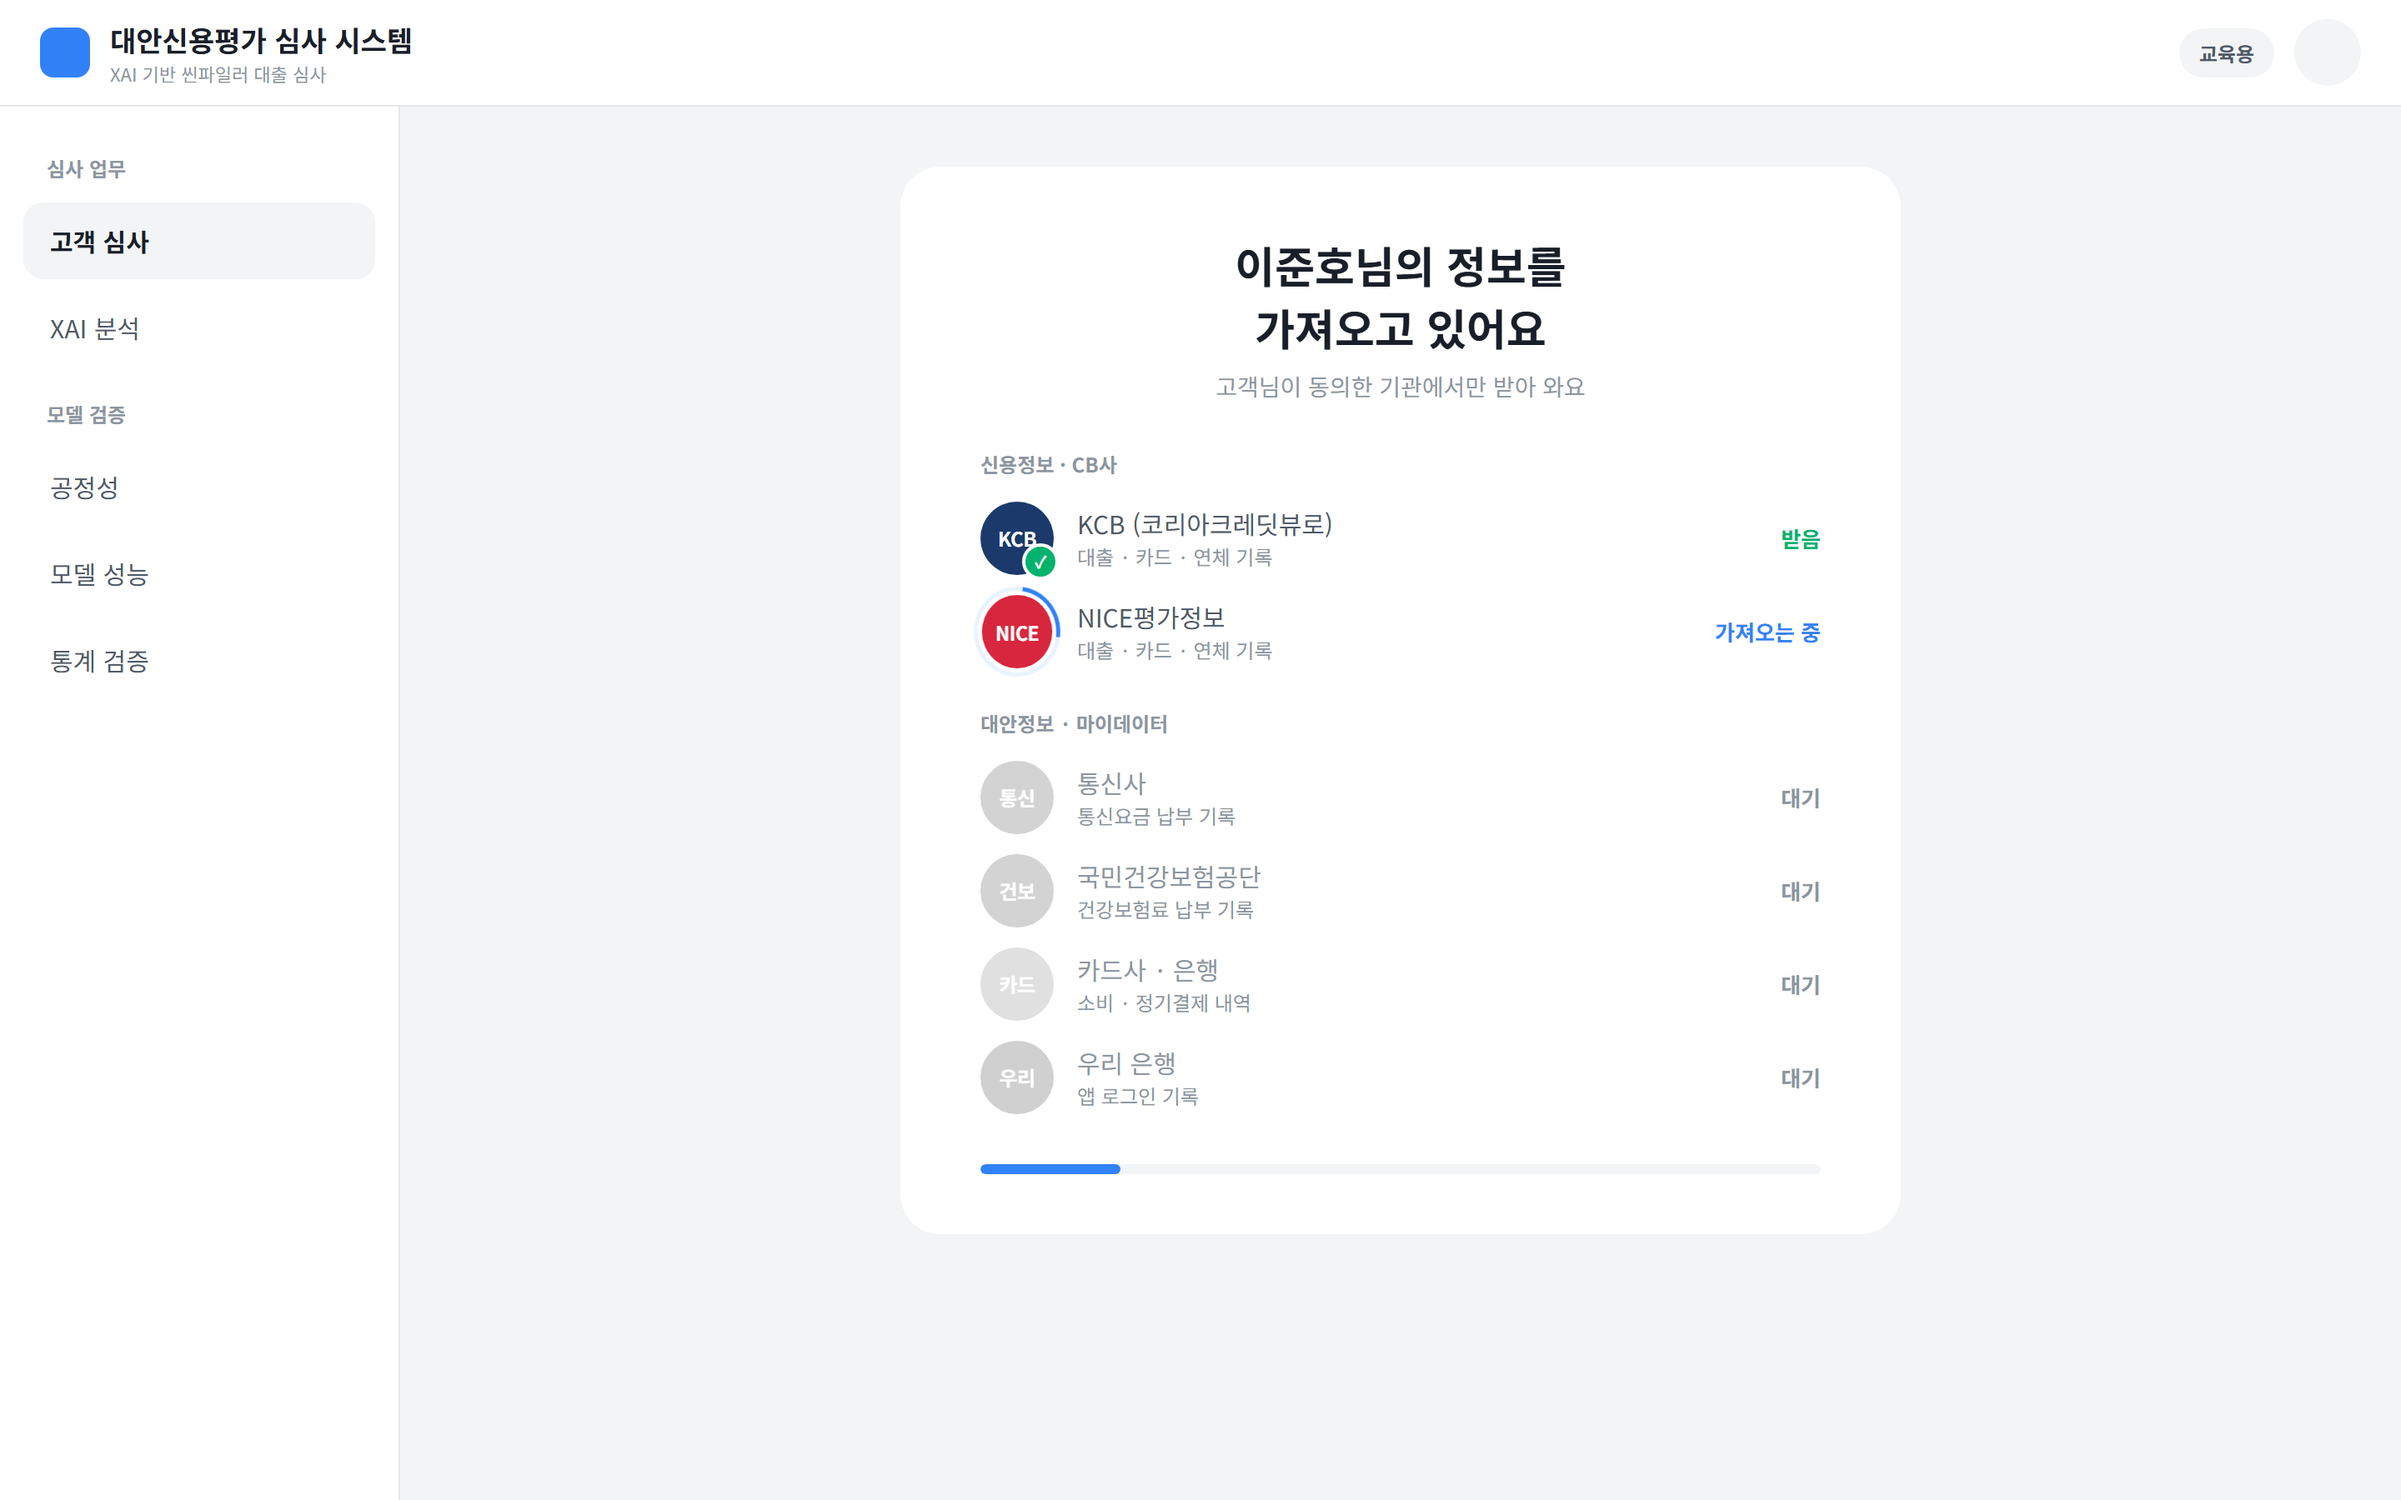
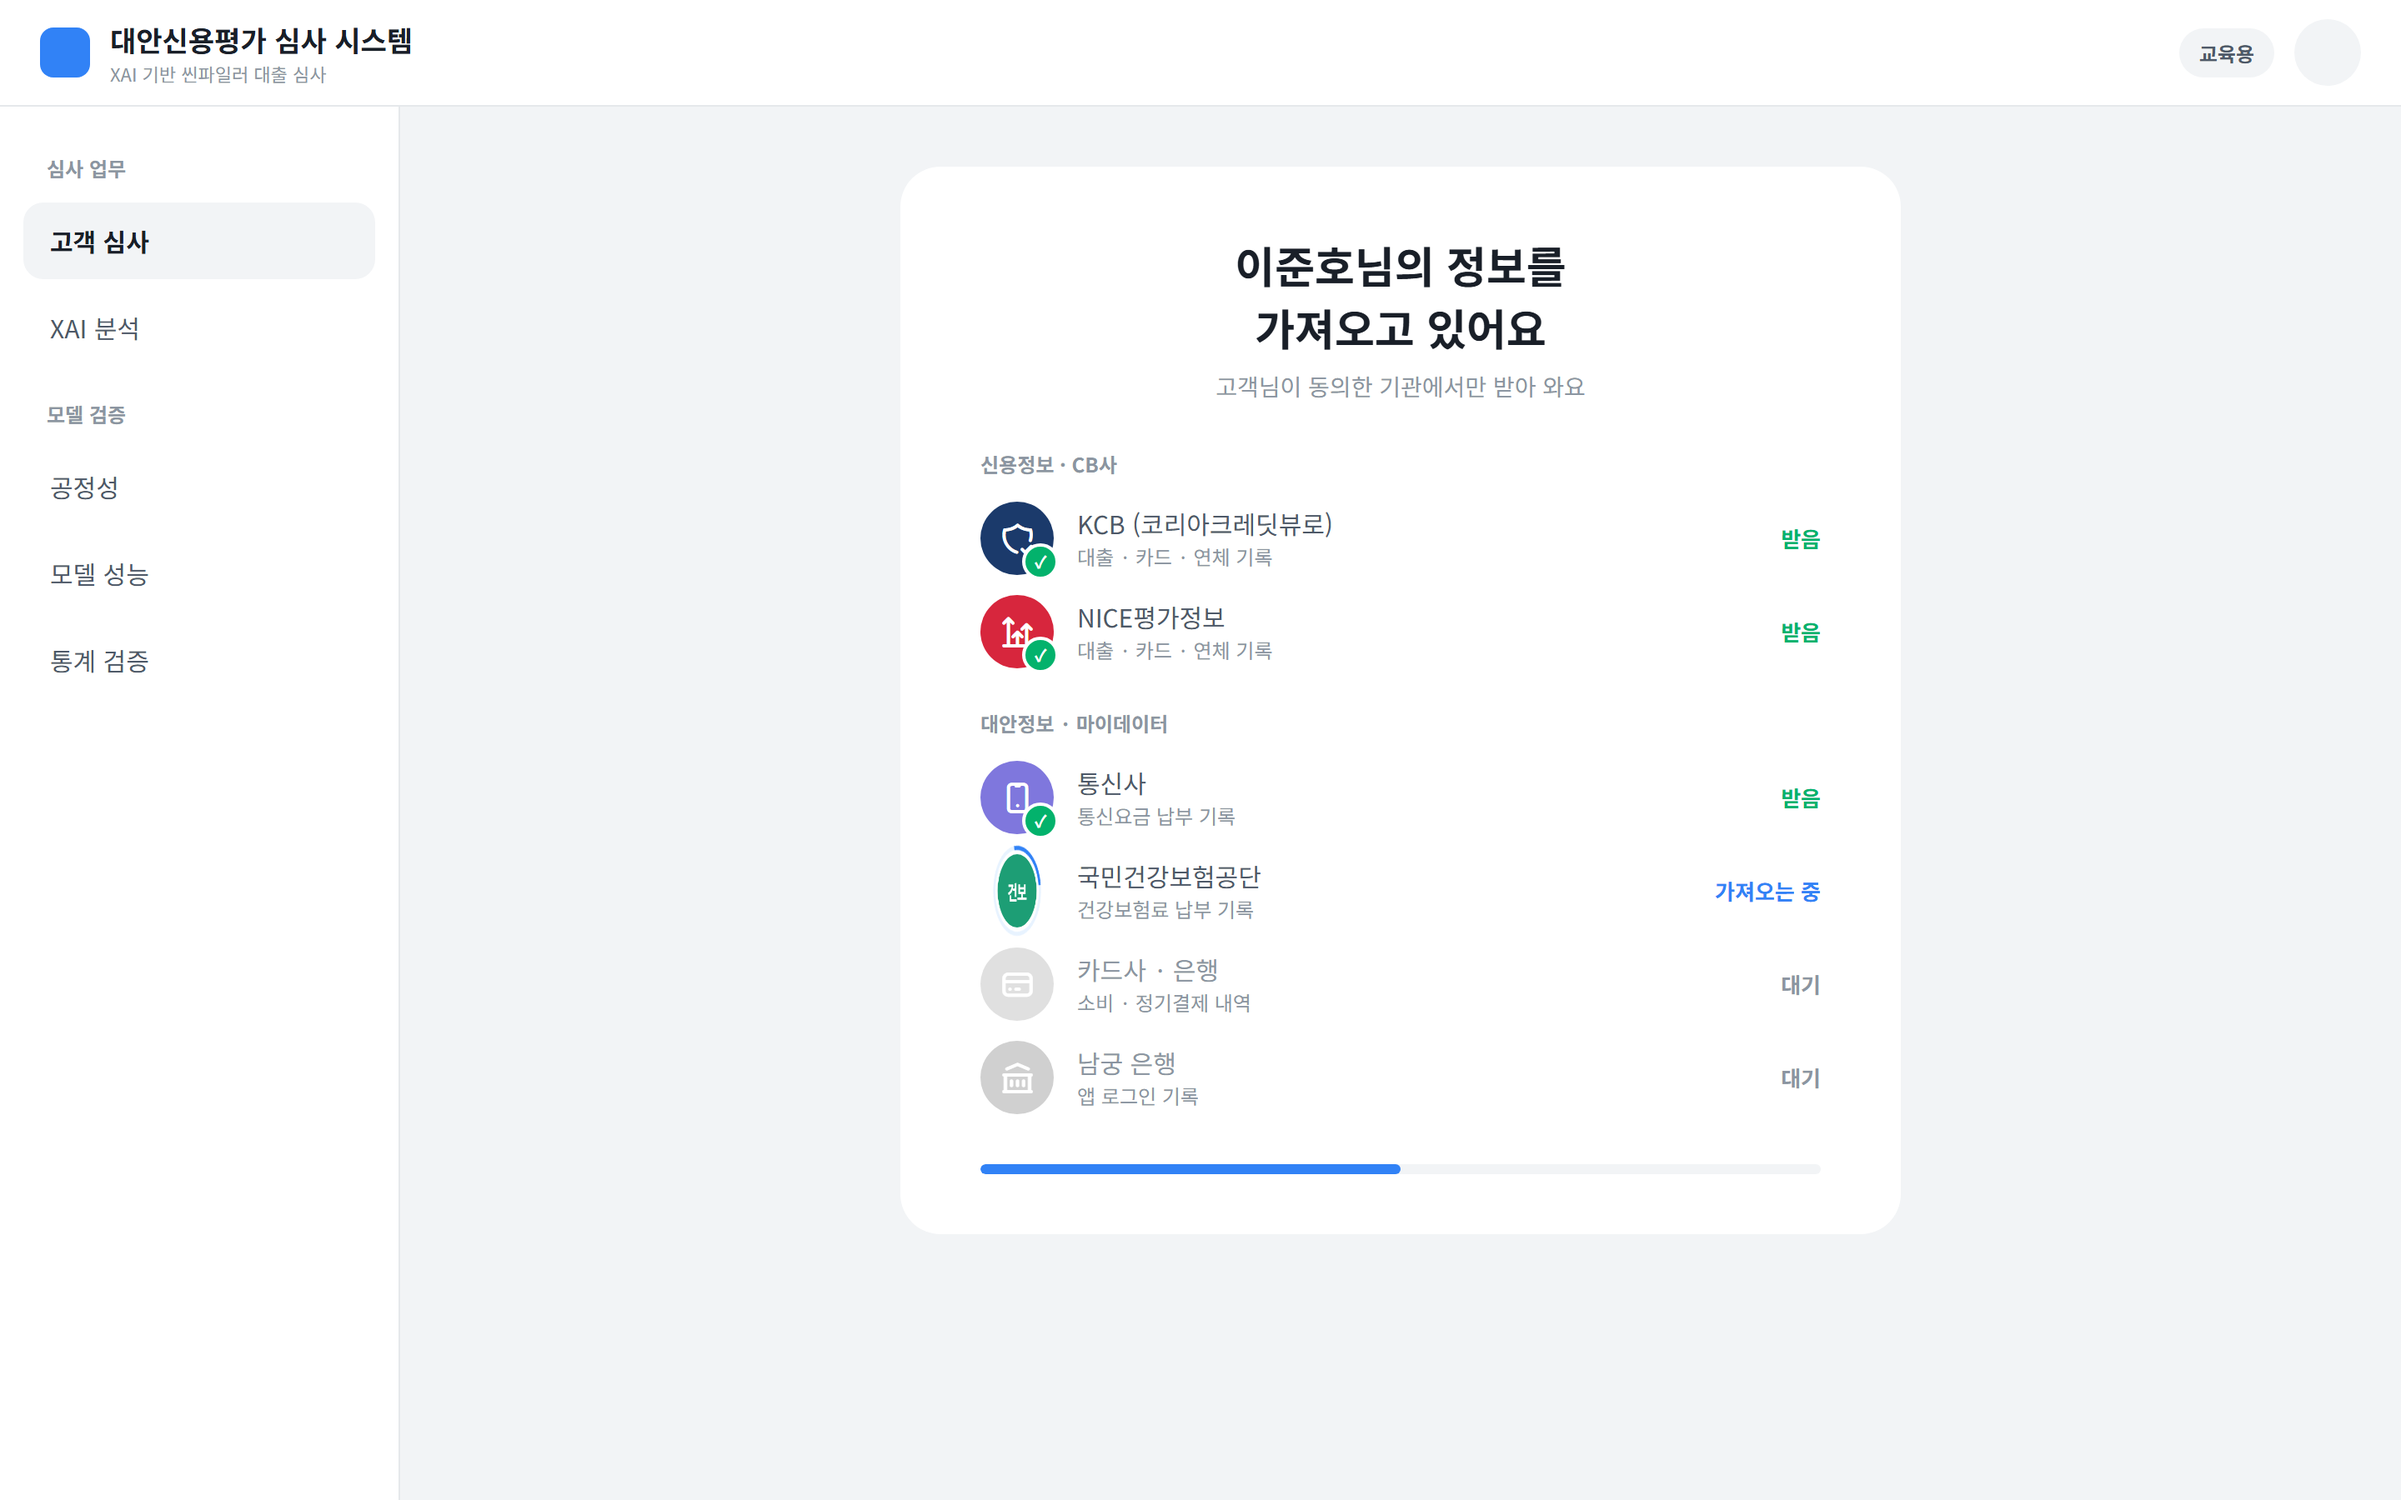
docs: 불러오기 연출 기관 그림, 남궁 은행으로 이름 변경

diff --git a/docs/issue-assets/screening-design/mock/loading.html b/docs/issue-assets/screening-design/mock/loading.html
@@ -1,11 +1,11 @@
-<!doctype html><html lang="ko"><head><meta charset="utf-8"><link rel="stylesheet" href="shell.css"><style>
+<!doctype html><html lang="ko"><head><meta charset="utf-8"><link rel="stylesheet" href="shell.css"><link rel="stylesheet" href="https://cdn.jsdelivr.net/npm/@tabler/icons-webfont@3.19.0/dist/tabler-icons.min.css"><style>
 .main{display:flex;justify-content:center;align-items:flex-start}
 .ld{width:600px;background:#FFF;border-radius:24px;padding:40px 48px 36px;margin-top:8px}
 .ld h1{text-align:center;font-size:26px;line-height:1.45;margin:0 0 6px}
 .ld .sub{text-align:center;margin-bottom:28px}
 .grp{font-size:12px;font-weight:700;color:var(--ink3);margin:18px 0 8px}
 .row{display:flex;align-items:center;gap:14px;height:56px}
-.lg{width:44px;height:44px;flex:none;border-radius:50%;display:flex;align-items:center;justify-content:center;font-size:12px;font-weight:700;color:#FFF;letter-spacing:-.02em;position:relative}
+.lg i{font-size:22px}.lg{width:44px;height:44px;flex:none;border-radius:50%;display:flex;align-items:center;justify-content:center;font-size:12px;font-weight:700;color:#FFF;letter-spacing:-.02em;position:relative}
 .kcb{background:#1B3A6B}.nice{background:#D7263D}.tel{background:#7F77DD}.hlt{background:#1D9E75}.card{background:#EF9F27}.bank{background:var(--accent)}
 .row .tx{flex:1;font-size:15px;color:var(--ink2)}.row .tx small{display:block;font-size:12px;color:var(--ink3)}
 .st{font-size:13px;font-weight:700;color:var(--ink3);width:70px;text-align:right}
@@ -23,13 +23,13 @@
 <div class="main"><div class="ld">
 <h1>이준호님의 정보를<br>가져오고 있어요</h1><p class="sub">고객님이 동의한 기관에서만 받아 와요</p>
 <div class="grp">신용정보 · CB사</div>
-<div class="row" data-i="0"><div class="lg kcb">KCB</div><div class="tx">KCB (코리아크레딧뷰로)<small>대출 · 카드 · 연체 기록</small></div><span class="st"></span></div>
-<div class="row" data-i="1"><div class="lg nice">NICE</div><div class="tx">NICE평가정보<small>대출 · 카드 · 연체 기록</small></div><span class="st"></span></div>
+<div class="row" data-i="0"><div class="lg kcb"><i class="ti ti-shield-check"></i></div><div class="tx">KCB (코리아크레딧뷰로)<small>대출 · 카드 · 연체 기록</small></div><span class="st"></span></div>
+<div class="row" data-i="1"><div class="lg nice"><i class="ti ti-chart-arrows-vertical"></i></div><div class="tx">NICE평가정보<small>대출 · 카드 · 연체 기록</small></div><span class="st"></span></div>
 <div class="grp">대안정보 · 마이데이터</div>
-<div class="row" data-i="2"><div class="lg tel">통신</div><div class="tx">통신사<small>통신요금 납부 기록</small></div><span class="st"></span></div>
+<div class="row" data-i="2"><div class="lg tel"><i class="ti ti-device-mobile"></i></div><div class="tx">통신사<small>통신요금 납부 기록</small></div><span class="st"></span></div>
 <div class="row" data-i="3"><div class="lg hlt">건보</div><div class="tx">국민건강보험공단<small>건강보험료 납부 기록</small></div><span class="st"></span></div>
-<div class="row" data-i="4"><div class="lg card">카드</div><div class="tx">카드사 · 은행<small>소비 · 정기결제 내역</small></div><span class="st"></span></div>
-<div class="row" data-i="5"><div class="lg bank">우리</div><div class="tx">우리 은행<small>앱 로그인 기록</small></div><span class="st"></span></div>
+<div class="row" data-i="4"><div class="lg card"><i class="ti ti-credit-card"></i></div><div class="tx">카드사 · 은행<small>소비 · 정기결제 내역</small></div><span class="st"></span></div>
+<div class="row" data-i="5"><div class="lg bank"><i class="ti ti-building-bank"></i></div><div class="tx">남궁 은행<small>앱 로그인 기록</small></div><span class="st"></span></div>
 <div class="bar"><i id="bar"></i></div>
 </div></div></div>
 <script>

diff --git a/docs/issue-assets/screening-design/mock/a3.html b/docs/issue-assets/screening-design/mock/a3.html
@@ -49,7 +49,7 @@
 <div class="t"><span>90일 이상 연체</span><div><b>0</b><em>회</em></div></div>
 </div></div>
 
-<div class="cd"><div class="ch"><div class="ic">3</div><b>대안정보</b><span class="chip">마이데이터</span></div><p class="cs">통신사 · 공공기관 · 카드사 · 우리 은행</p>
+<div class="cd"><div class="ch"><div class="ic">3</div><b>대안정보</b><span class="chip">마이데이터</span></div><p class="cs">통신사 · 공공기관 · 카드사 · 남궁 은행</p>
 <div class="tiles">
 <div class="t"><span>통신요금</span><div><b>19</b><em>/ 24개월</em></div></div>
 <div class="t"><span>건강보험</span><div><b>17</b><em>/ 24개월</em></div></div>
